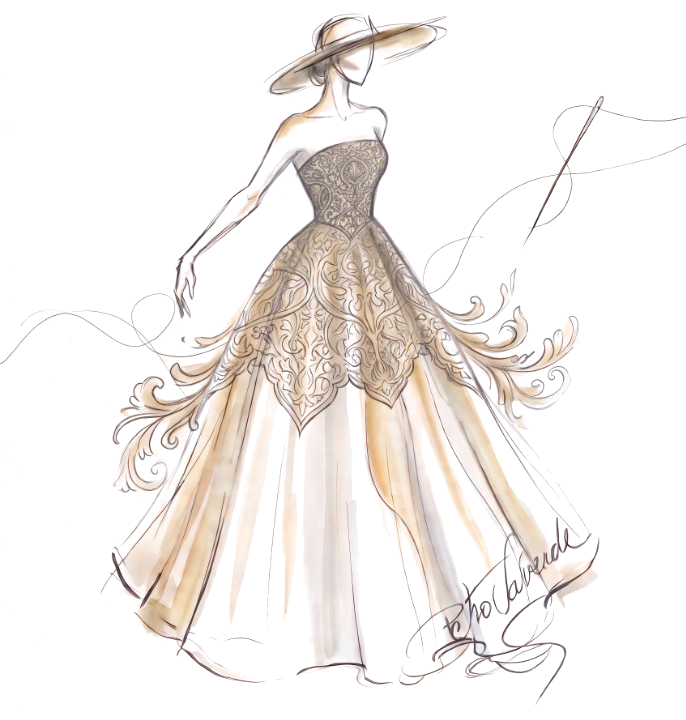
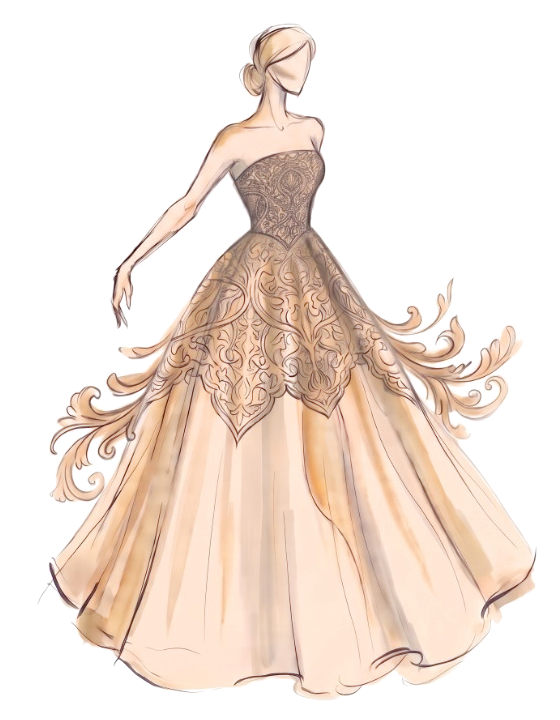
feat: replace header dress illustration with version without hat

diff --git a/ataurique-y-organza-galeria-exclusiva.html b/ataurique-y-organza-galeria-exclusiva.html
@@ -203,11 +203,11 @@
           </div>
 
           <!-- Columna Derecha: Ilustración del vestido integrada sin fondo -->
-          <div class="w-60 sm:w-72 lg:w-[340px] shrink-0 flex justify-center lg:justify-end">
+          <div class="w-56 sm:w-64 lg:w-[300px] shrink-0 flex justify-center lg:justify-end">
             <img
-              src="images/vestido-ataurique.webp"
-              alt="Boceto de alta costura firmado por Petro Valverde para Ataurique y Organza"
-              width="686"
+              src="images/vestido-ataurique.webp?v=2"
+              alt="Boceto de alta costura para Ataurique y Organza"
+              width="560"
               height="720"
               decoding="async"
               class="w-full h-auto object-contain select-none pointer-events-none drop-shadow-xs"
